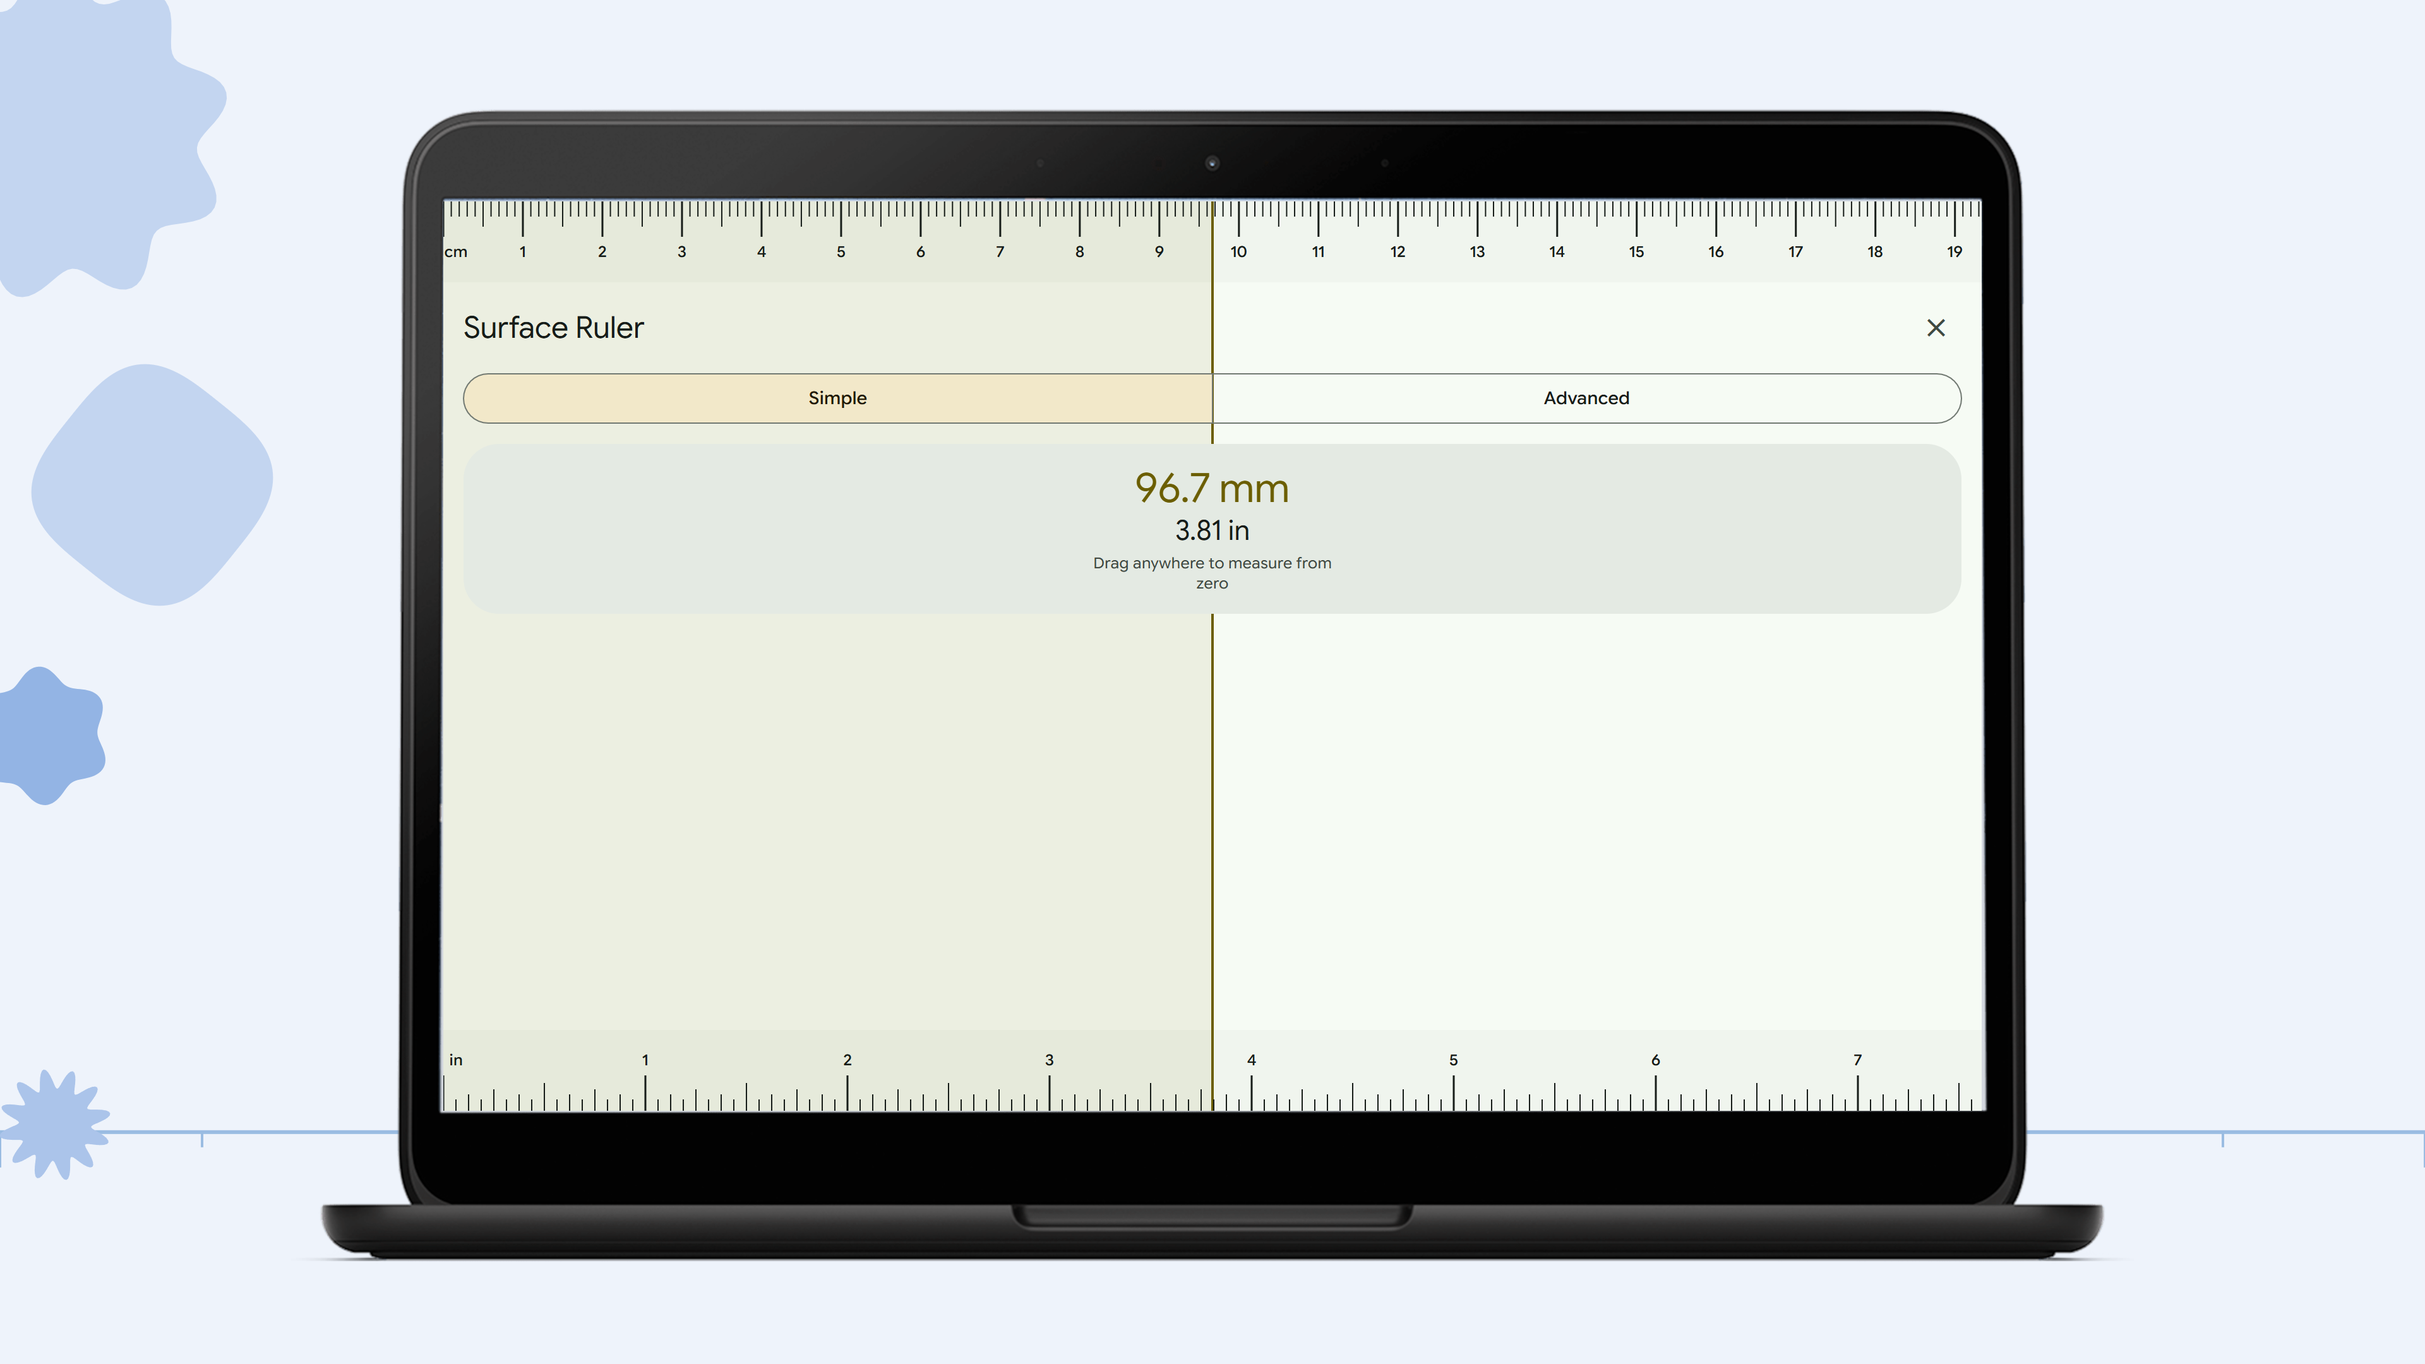
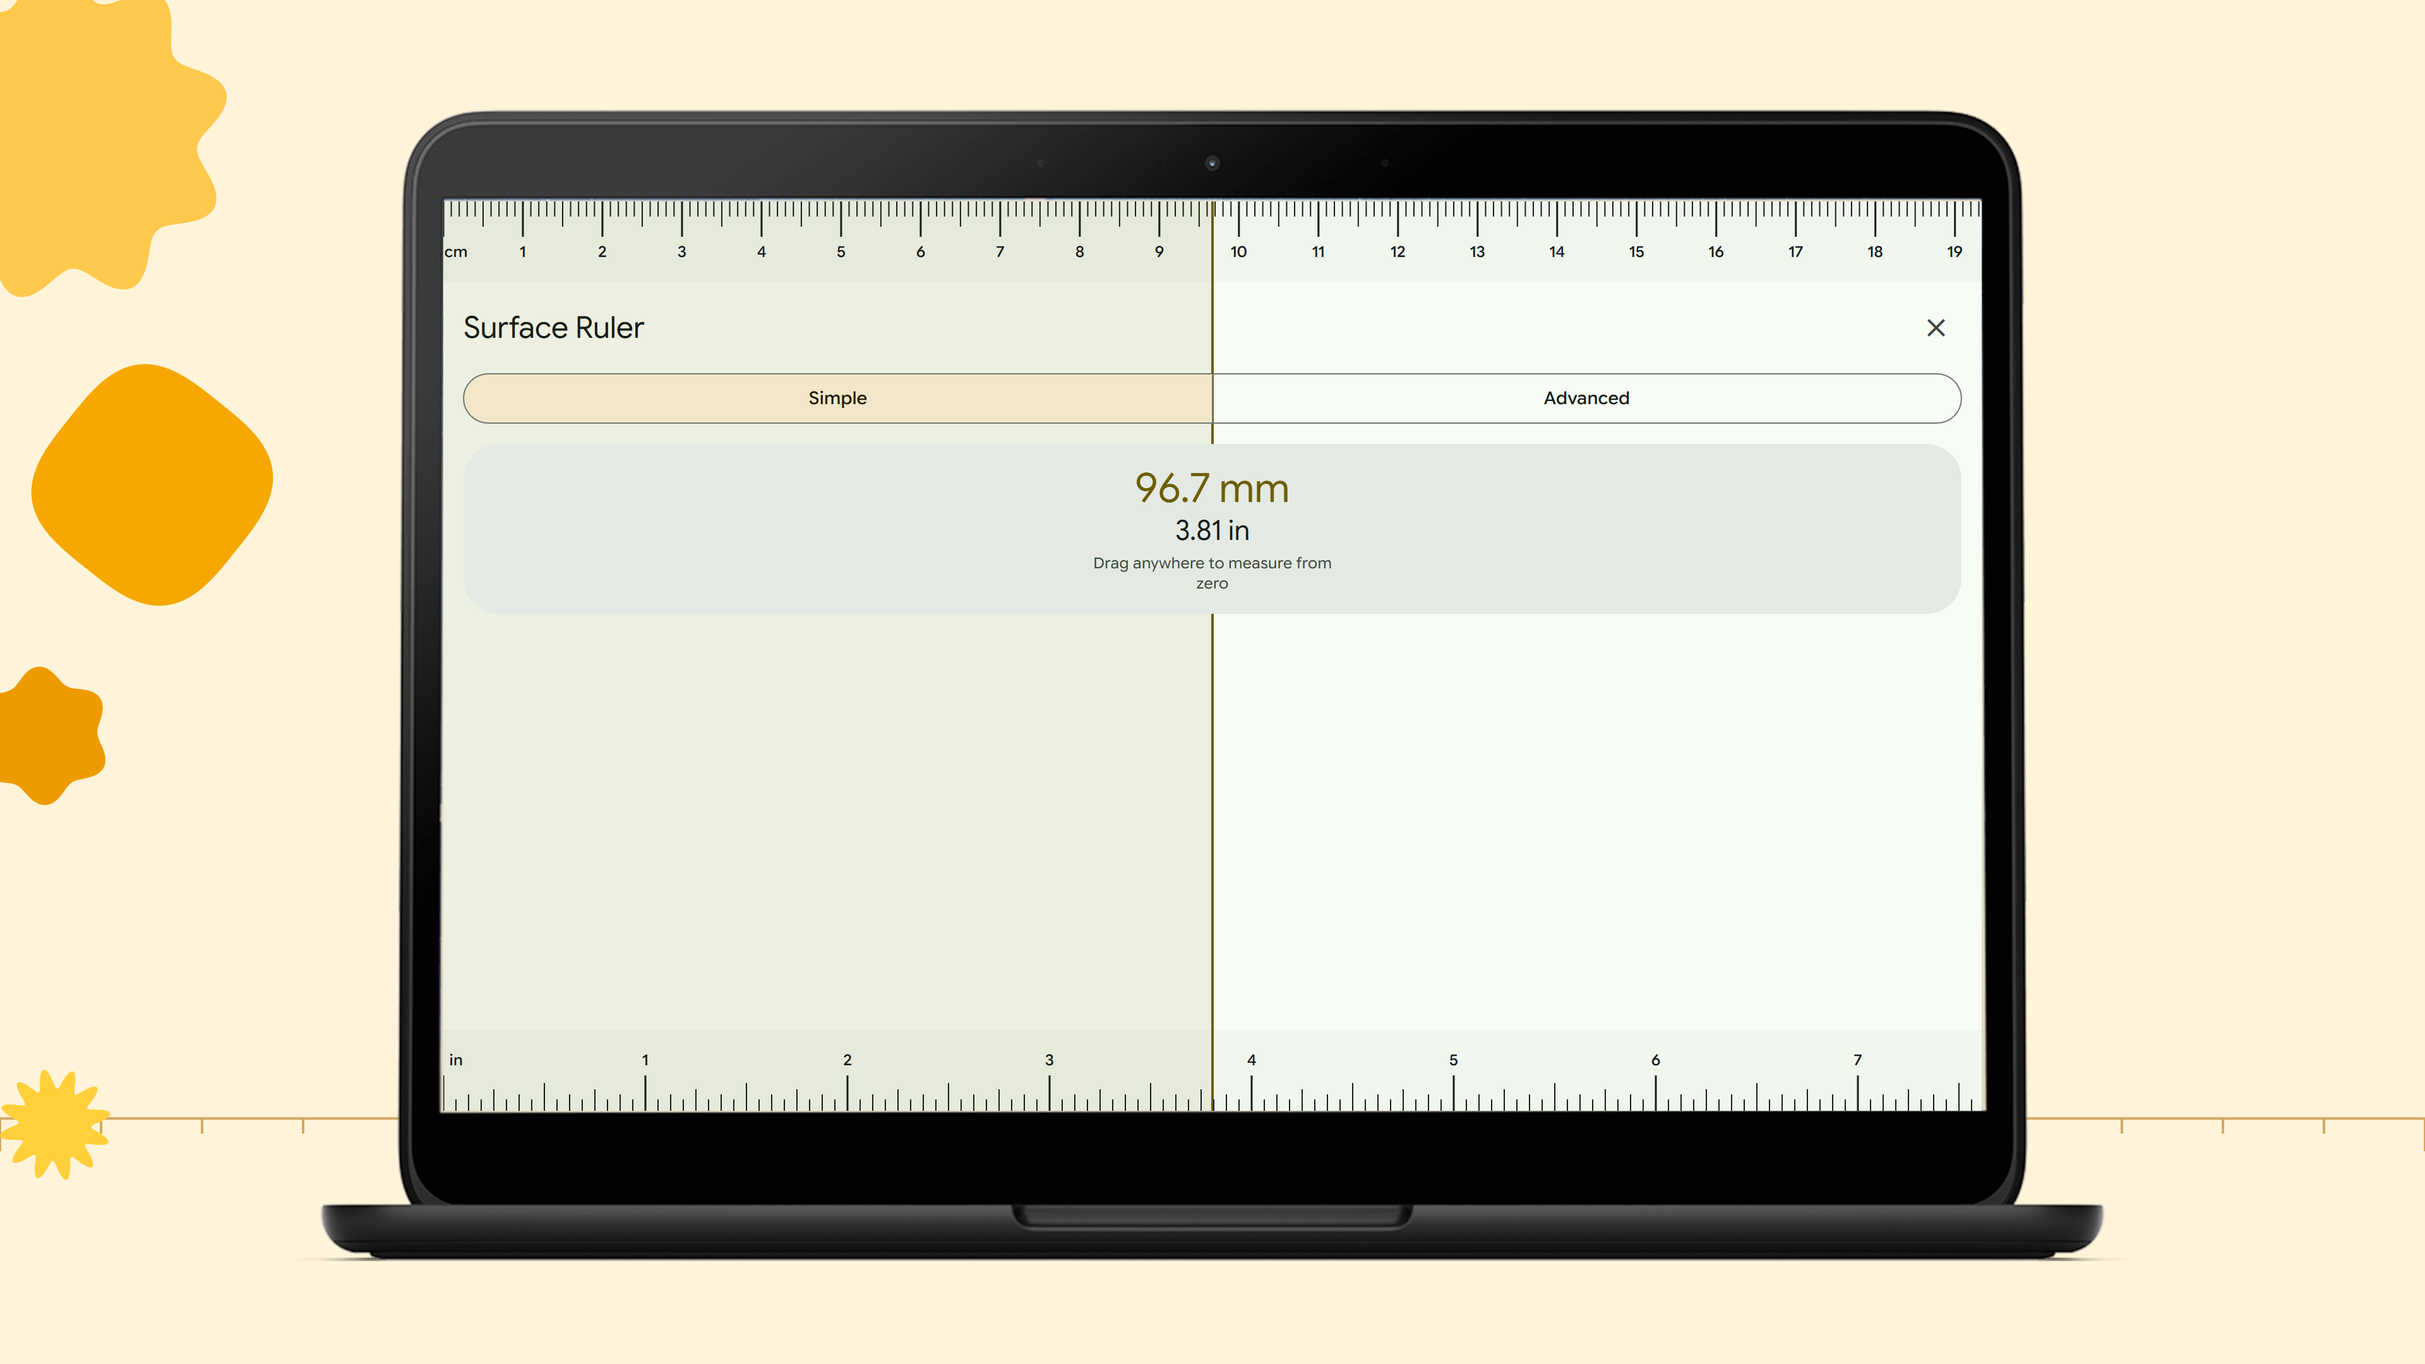
Refine measurement listing with warm Material artwork

diff --git a/marketing/creative/store/google-play/listings/custom/ruler-and-protractor/source/src/composition/shots.ts b/marketing/creative/store/google-play/listings/custom/ruler-and-protractor/source/src/composition/shots.ts
@@ -1,22 +1,23 @@
-import { CAPTION, H, SPACE, W, fitPose, measure } from "./geometry.ts";
-import type { CaptionAt, Measured, Pose, ScreenUi } from "./geometry.ts";
-import type { ShapePlan } from "./effects.ts";
-export type Terms = Record<string, number>;
-export type ShotSpec = { id:string; intent:string; caption:CaptionAt; screens:string[]; effects?:"sound"; shapes:ShapePlan; candidates:(ui:Record<string,ScreenUi>)=>Iterable<Pose[]>; hard?:(ms:Measured[])=>string[]; score:(ms:Measured[])=>Terms };
+import {CAPTION,H,SPACE,W,fitPose,measure} from "./geometry.ts";
+import type {CaptionAt,Measured,Pose,ScreenUi} from "./geometry.ts";
+import type {ShapePlan} from "./effects.ts";
+export type Terms=Record<string,number>;
+export type ShotSpec={id:string;intent:string;caption:CaptionAt;screens:string[];effects?:"sound";shapes:ShapePlan;candidates:(ui:Record<string,ScreenUi>)=>Iterable<Pose[]>;hard?:(ms:Measured[])=>string[];score:(ms:Measured[])=>Terms};
 const specs=[
- {id:"ruler", width:660, yaw:0, roll:0},
- {id:"protractor", width:630, yaw:0, roll:0},
- {id:"advanced", width:660, yaw:0, roll:0},
- {id:"converter", width:570, yaw:-4, roll:-2},
- {id:"measure", width:600, yaw:4, roll:2}
+ {id:"ruler",width:660,yaw:-4,roll:-3,x:505,top:390},
+ {id:"protractor",width:620,yaw:0,roll:2,x:570,top:455},
+ {id:"advanced",width:650,yaw:3,roll:-2,x:510,top:385},
+ {id:"converter",width:590,yaw:-8,roll:5,x:565,top:420},
+ {id:"measure",width:630,yaw:6,roll:-4,x:525,top:400}
 ];
-export const SHOTS:ShotSpec[]=specs.map(({id,width:target,yaw:turn,roll:lean},i)=>({
- id, intent:id, caption:"top", screens:[id], shapes:{seed:11+i*7,small:1},
- *candidates(ui) {
-   for (const pitch of [-2,0,2]) for (const yaw of [-4,0,4]) for (const roll of [-2,0,2]) for (const width of [540,570,600,630,660])
-     yield [fitPose({pitch,yaw,roll,perspective:3000},ui[id],{width,x:m=>m.centroid[0],xTarget:W/2,y:m=>m.full.top,yTarget:CAPTION.top.block.bottom+SPACE.xl})];
+export const SHOTS:ShotSpec[]=specs.map(({id,width:target,yaw:turn,roll:lean,x,top},i)=>({
+ id,intent:id,caption:"top",screens:[id],
+ shapes:{seed:11+i*7,offset:i,small:3,big:{at:()=>[i%2?410:680,1170],max:980,min:700}},
+ *candidates(ui){
+ for(const pitch of [-2,0,2])for(const yaw of [turn-2,turn,turn+2])for(const roll of [lean-1,lean,lean+1])for(const width of [target-30,target,target+30])
+ yield [fitPose({pitch,yaw,roll,perspective:3000},ui[id],{width,x:m=>m.centroid[0],xTarget:x,y:m=>m.full.top,yTarget:Math.max(top,CAPTION.top.block.bottom+SPACE.l)})];
  },
  hard:([m])=>m.full.bottom>H-SPACE.m?["Show the whole device"]:[],
- score:([m])=>({width:Math.pow(((m.box.right-m.box.left)-target)/60,2),perspective:(m.pose.pitch*m.pose.pitch+Math.pow(m.pose.yaw-turn,2)+Math.pow(m.pose.roll-lean,2))/100})
+ score:([m])=>({size:Math.pow(((m.box.right-m.box.left)-target)/30,2),pose:(m.pose.pitch*m.pose.pitch+Math.pow(m.pose.yaw-turn,2)+Math.pow(m.pose.roll-lean,2))/100})
 }));
 export const measureAll=(poses:Pose[],screens:string[],ui:Record<string,ScreenUi>)=>poses.map((p,i)=>measure(p,ui[screens[i]]));

diff --git a/marketing/creative/store/google-play/listings/custom/ruler-and-protractor/source/src/FeatureGraphic.tsx b/marketing/creative/store/google-play/listings/custom/ruler-and-protractor/source/src/FeatureGraphic.tsx
@@ -1,15 +1,20 @@
 import React from "react";
-import { AbsoluteFill } from "remotion";
-import { useFonts } from "./LitScreen";
-import { STRINGS } from "./strings";
-import { FONT } from "./theme";
+import {AbsoluteFill} from "remotion";
+import {useFonts} from "./LitScreen";
+import {STRINGS} from "./strings";
+import {Shape} from "./Shape";
+import {FONT,INK} from "./theme";
 export type Concept="ripple"|"ribbon";
-export const FeatureGraphic:React.FC<{locale:string;concept?:Concept}>=({locale,concept="ribbon"})=>{
+export const FeatureGraphic:React.FC<{locale:string;concept?:Concept}>=({locale})=>{
  useFonts();const s=STRINGS[locale].featureGraphic;
- return <AbsoluteFill style={{background:"#D8E8F9",fontFamily:FONT,color:"#102A50",overflow:"hidden"}}>
- <svg width="1024" height="500" style={{position:"absolute",inset:0}}>
- {concept==="ribbon"?<g fill="none" stroke="#769ED0" strokeWidth="3"><path d="M -30 400 H 1054"/>{Array.from({length:32},(_,i)=><path key={i} d={`M ${i*34} 400 v ${i%5===0?-35:-16}`}/>)}<path d="M 760 500 A 280 280 0 0 0 1040 220"/></g>:<g fill="none" stroke="#769ED0" strokeWidth="4"><path d="M -140 500 A 350 350 0 0 1 210 150"/><path d="M 820 500 L 1024 296"/><path d="M 820 500 H 1100"/></g>}
+ return <AbsoluteFill style={{background:"#FFF4D9",fontFamily:FONT,color:INK,overflow:"hidden"}}>
+ <Shape name="cookie_12sided" x={-130} y={190} size={490} color="#FFD03B" rotate={12}/>
+ <Shape name="clover_4leaf" x={810} y={-100} size={370} color="#FDE7A2" rotate={-16}/>
+ <Shape name="soft_burst" x={850} y={380} size={150} color="#F6A800" rotate={18}/>
+ <svg width="1024" height="500" style={{position:"absolute",inset:0}} fill="none" stroke="#8F5700" strokeWidth="2">
+ <path d="M 0 420 H 350"/>{Array.from({length:15},(_,i)=><path key={i} d={`M ${i*24} 420 v ${i%4?-12:-25}`}/>)}
+ <path d="M 760 30 A 230 230 0 0 1 990 260"/><path d="M 825 60 V 210 L 935 100" strokeWidth="3"/>
  </svg>
- <div style={{position:"absolute",left:100,right:100,top:145,textAlign:"center"}}><div style={{fontSize:22,fontWeight:600,color:"#27588F"}}>{s.brand}</div><div style={{fontSize:64,fontWeight:650,letterSpacing:-2,marginTop:14}}>{s.title}</div><div style={{fontSize:29,marginTop:16}}>{s.tagline}</div></div>
+ <div style={{position:"absolute",left:110,right:110,top:142,textAlign:"center"}}><div style={{fontSize:22,fontWeight:600,color:"#8F5700"}}>{s.brand}</div><div style={{fontSize:64,fontWeight:650,letterSpacing:-2,marginTop:14}}>{s.title}</div><div style={{fontSize:29,marginTop:16}}>{s.tagline}</div></div>
  </AbsoluteFill>
 };

diff --git a/marketing/creative/store/google-play/listings/custom/ruler-and-protractor/source/src/theme.ts b/marketing/creative/store/google-play/listings/custom/ruler-and-protractor/source/src/theme.ts
@@ -1,23 +1,15 @@
-// The Water Eject campaign takes its whole palette from the Water Eject sheet (ToolkitTileVisuals.kt's blue
-// tool, as the kit draws it): its content blue (the Start button and icon), its brighter container blue and
-// the water visual's container fill, with the ground, the glass ribbons, the ink and the decoration all in
-// that blue family. The app's UI keeps its own colours.
-export const SHEET_BLUE = "#0B4FA8";
-export const SHEET_BLUE_BRIGHT = "#2D7DF6";
-export const SHEET_BLUE_CONTAINER = "#B8CDE3";
-/** Headlines: a deep navy from the same family. */
-export const INK = "#0B1D36";
-export const PILL = SHEET_BLUE_CONTAINER;
-export const ON_PILL = SHEET_BLUE;
-/** The ground, top to bottom; the feature graphic uses the deeper pair so it holds its edge on a white page. */
-export const FIELD: [string, string] = ["#EEF3FB", "#D2E1F4"];
-export const FIELD_DEEP: [string, string] = ["#DCE7F7", "#BED3EF"];
-/** The glass ribbons: a band shading through these, a refracting edge and white rims. */
-export const RIBBON_STOPS = ["#9CBDEB", "#F6F9FF", "#C9DAF2", "#7EA6E3"];
-export const RIBBON_EDGE = SHEET_BLUE_BRIGHT;
-/** MaterialShapes, and the large one drawn behind a phone. */
-export const SHAPE_TONES = ["#C3D5F0", "#ABC4EA", "#93B4E4"];
-export const SHAPE_BEHIND = "#D6E3F6";
-export const BUBBLE_TINT = "#9DBDF0";
-export const FONT = "'Google Sans Flex', sans-serif";
-export const PALETTE = "captured";
+export const INK="#3A2600";
+export const PILL="#8F5700";
+export const ON_PILL="#FFF8E8";
+export const FIELD:[string,string]=["#FFF4D9","#FFF4D9"];
+export const FIELD_DEEP:[string,string]=["#FDE7A2","#FDE7A2"];
+export const SHAPE_TONES=["#F6A800","#FFD03B","#EE9B00","#FFC94D"];
+export const SHAPE_BEHIND="#FDE7A2";
+export const SHEET_BLUE="#8F5700";
+export const SHEET_BLUE_BRIGHT="#F6A800";
+export const SHEET_BLUE_CONTAINER="#FDE7A2";
+export const RIBBON_STOPS=["#FDE7A2","#FFF8E8","#FFD03B","#E8B04A"];
+export const RIBBON_EDGE="#EE9B00";
+export const BUBBLE_TINT="#E8B04A";
+export const FONT="'Google Sans Flex', sans-serif";
+export const PALETTE="captured";

diff --git a/marketing/creative/store/google-play/listings/custom/ruler-and-protractor/source/src/Glass.tsx b/marketing/creative/store/google-play/listings/custom/ruler-and-protractor/source/src/Glass.tsx
@@ -1,9 +1,13 @@
 import React from "react";
-import { FIELD } from "./theme";
-export type TextBox = {left:number;top:number;right:number;bottom:number};
-export const Glass:React.FC<{width:number;height:number;panels:number;id?:string;text?:TextBox[];ribbons?:boolean;field?:[string,string]}> = ({width,height,panels,field=FIELD}) => <svg aria-hidden width={width} height={height} style={{position:"absolute",inset:0}}>
-<rect width={width} height={height} fill={field[0]}/>
-<path d={`M 0 ${height*.83} H ${width}`} stroke="#9ABCE2" strokeWidth="3" fill="none"/>
-{Array.from({length:panels*12+1},(_,i)=><line key={i} x1={i*width/(panels*12)} x2={i*width/(panels*12)} y1={height*.83} y2={height*.83+(i%3===0?28:12)} stroke="#9ABCE2" strokeWidth="2"/>)}
-</svg>;
+import {FIELD} from "./theme";
+export type TextBox={left:number;top:number;right:number;bottom:number};
+export const Glass:React.FC<{width:number;height:number;panels:number;id?:string;text?:TextBox[];ribbons?:boolean;field?:[string,string]}>=({width,height,panels,field=FIELD})=>{
+ const pw=width/panels;
+ return <svg aria-hidden width={width} height={height} style={{position:"absolute",inset:0}}>
+ <rect width={width} height={height} fill={field[0]}/>
+ {Array.from({length:panels},(_,i)=><g key={i} transform={`translate(${i*pw} 0)`} fill="none" stroke="#B87512" strokeWidth="2" opacity=".6">
+ {i%2===0?<g><path d={`M 0 ${height*.82} H ${pw}`}/>{Array.from({length:25},(_,k)=><path key={k} d={`M ${k*pw/24} ${height*.82} v ${k%4===0?26:12}`}/>)}</g>:<g transform={`translate(${pw*.55} ${height*.69})`}><path d={`M ${-pw*.46} 0 A ${pw*.46} ${pw*.46} 0 0 1 0 ${-pw*.46}`}/>{Array.from({length:19},(_,k)=>{const a=Math.PI+k*Math.PI/36,r=pw*.46;return <line key={k} x1={Math.cos(a)*r} y1={Math.sin(a)*r} x2={Math.cos(a)*(r-(k%3?10:24))} y2={Math.sin(a)*(r-(k%3?10:24))}/>})}</g>}
+ </g>)}
+ </svg>
+};
 export const SoundBubbles:React.FC<{arcs:{pts:number[][];ring:number}[];bubbles:number[][];width:number;height:number}>=()=>null;

diff --git a/marketing/creative/store/google-play/listings/custom/ruler-and-protractor/source/README.md b/marketing/creative/store/google-play/listings/custom/ruler-and-protractor/source/README.md
@@ -1,10 +1,16 @@
 # Ruler and Protractor creative source
 
-This is a work in progress. The first render contains five phone, four tablet and four desktop screenshots, a feature graphic and an icon. It is not ready to upload: the phone compositions need more variety and the supporting sequence does not yet show Bubble Level. The renderer also logged intermittent font request failures that require investigation.
+Five phone, four tablet and four desktop screenshots, a feature graphic and the official icon are rendered from the Marketing UI. Each phone screenshot contains exactly one Pixel.
 
-The source adapts the speaker-water-eject composition and verification code. It mounts the Marketing UI's ruler, protractor, converter and Measure states. The background uses a pale blue field and a connected graduation line.
+## Art direction
 
-From this directory, run:
+The default App Toolkit listing supplies the cream ground, warm brown typography and amber caption pills. Large pale-yellow MaterialShapes sit behind the phones; smaller amber shapes and fine ruler or angle ornaments provide balance. The application retains its captured palette.
+
+Surface Ruler leads, followed by Protractor, Advanced Ruler, Unit Converter and the Measure workspace. Phone poses vary in scale, position, yaw and roll while retaining the full device and critical UI. The feature graphic uses the same warm shapes and measurement ornaments without a device.
+
+## Render
+
+From this directory:
 
 ```text
 npm ci
@@ -16,4 +22,10 @@ npm run render -- en-US
 npm run metadata
 ```
 
-The verification output and contact sheets are in ignored `output/verify/`. The first full render completed and metadata readback passed. The Google Play listing validator passed, but does not establish visual quality or production availability.
+The composition solver, renderer and verifier share projected geometry and safe-area rules. Verification writes clean and debug contact sheets plus report.json to output/verify/. Rendering stages all graphics before replacing the upload folder.
+
+## Verification
+
+The warm campaign's 13 screenshot compositions passed all hard checks. Phone caption contrast is at least 13.17:1, pill text 5.62:1, with zero measured interference in the caption zones. The closing image has a soft pixel-balance preference at 0.558 W. Its asymmetric composition was inspected visually.
+
+The renderer continues to report an intermittent local WOFF2 request error. Visible type and icons were inspected, but the request error itself remains unresolved. Production availability must be confirmed before upload.

diff --git a/marketing/creative/store/google-play/listings/custom/ruler-and-protractor/README.md b/marketing/creative/store/google-play/listings/custom/ruler-and-protractor/README.md
@@ -1,6 +1,6 @@
 # Ruler and Protractor custom listing
 
-Status: planned, incomplete. A first creative render, alt text and metadata are present, but the composition and typography still need review. Do not upload this listing.
+Status: planned. The creative package uses the default listing's warm Material design language with one phone per screenshot. Confirm production availability before upload.
 
 ## Audience and positioning
 
@@ -14,4 +14,4 @@ The keyword list contains candidates, not measured search demand. Google Play Co
 
 ## Remaining work
 
-Improve the phone sequence's visual variety and include Bubble Level. Investigate intermittent font-loading failures, inspect the revised graphics and run the full verification again. Confirm production availability of the advertised app version before upload.
+Confirm production availability of the advertised app version before upload. The renderer still reports an intermittent local font-request error; visible typography has been inspected. See source/README.md for render commands and verification scope.
